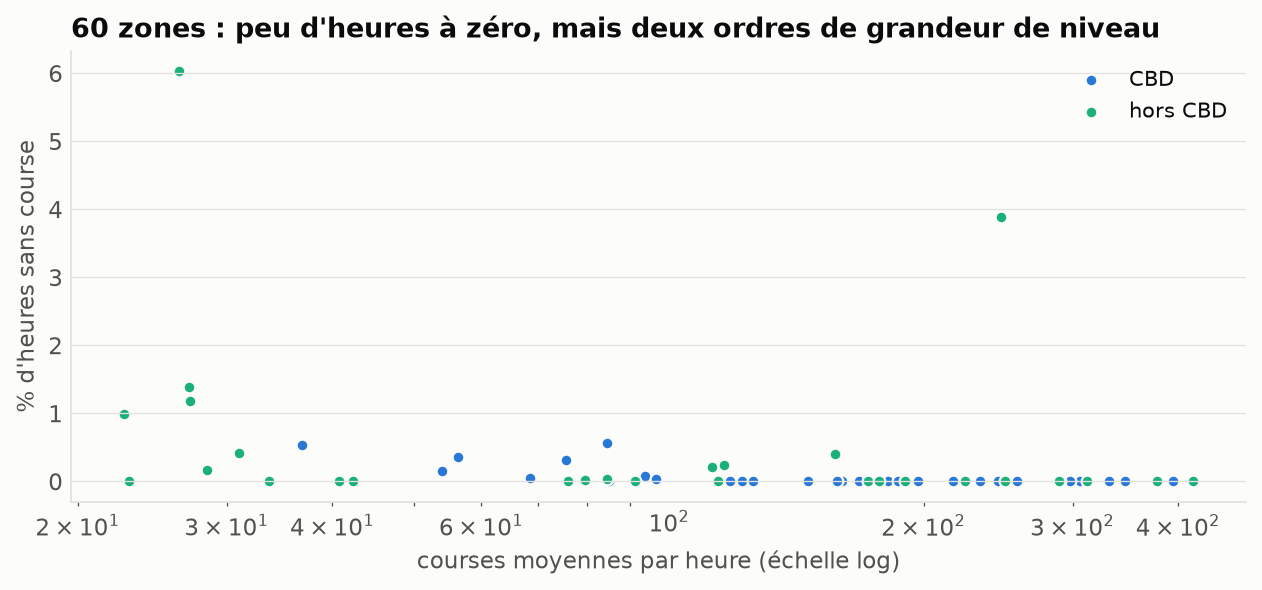
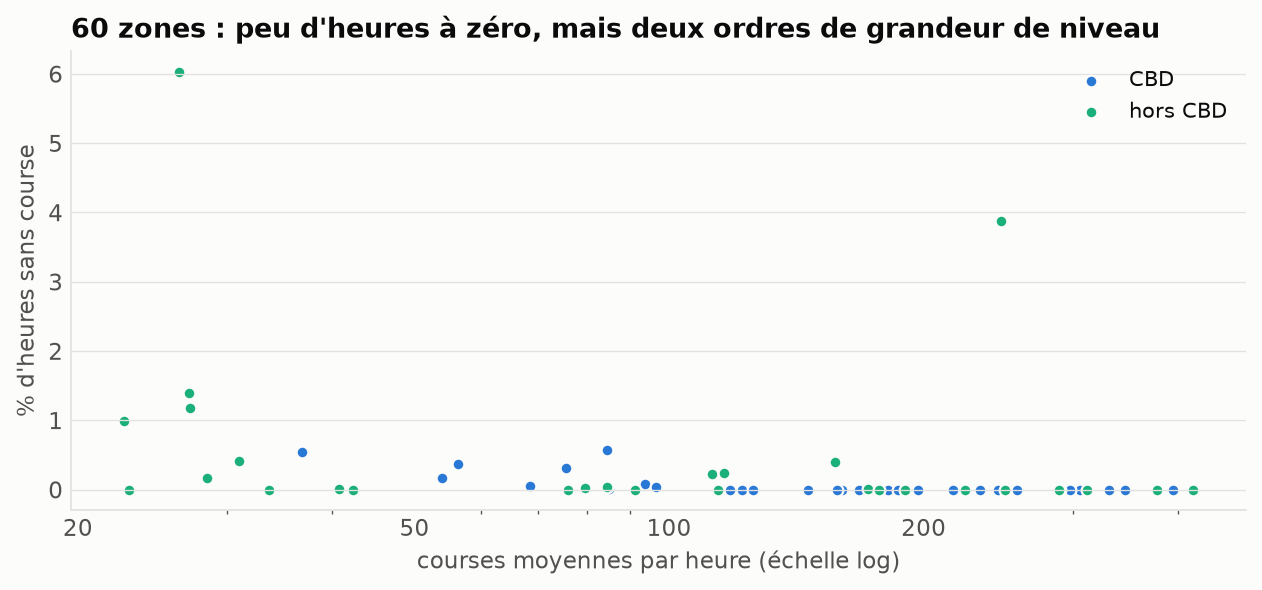
feat(viz): axe logarithmique en graduations simples

diff --git a/src/zonefleet/viz.py b/src/zonefleet/viz.py
@@ -80,3 +80,13 @@ def label_end(ax, x, y, text: str, color: str, dy: float = 0.0) -> None:
         color=INK2,
     )
     ax.plot([x], [y], "o", ms=4, color=color)
+
+
+def plain_log_axis(ax, axis: str = "x") -> None:
+    """Axe logarithmique gradué en nombres simples (10, 20, 50, 100...), sans mineures."""
+    import matplotlib.ticker as mticker
+
+    target = ax.xaxis if axis == "x" else ax.yaxis
+    target.set_major_locator(mticker.LogLocator(base=10, subs=(1, 2, 5)))
+    target.set_major_formatter(mticker.FuncFormatter(lambda v, _: f"{v:g}"))
+    target.set_minor_formatter(mticker.NullFormatter())

diff --git a/scripts/make_data_figures.py b/scripts/make_data_figures.py
@@ -201,6 +201,7 @@ def intermittency() -> None:
             s["mean"], 100 * s["zero"], s=28, color=c, label=lab, edgecolor=viz.SURFACE, lw=1
         )
     ax.set_xscale("log")
+    viz.plain_log_axis(ax)
     ax.set_xlabel("courses moyennes par heure (échelle log)")
     ax.set_ylabel("% d'heures sans course")
     ax.set_title("60 zones : peu d'heures à zéro, mais deux ordres de grandeur de niveau")
